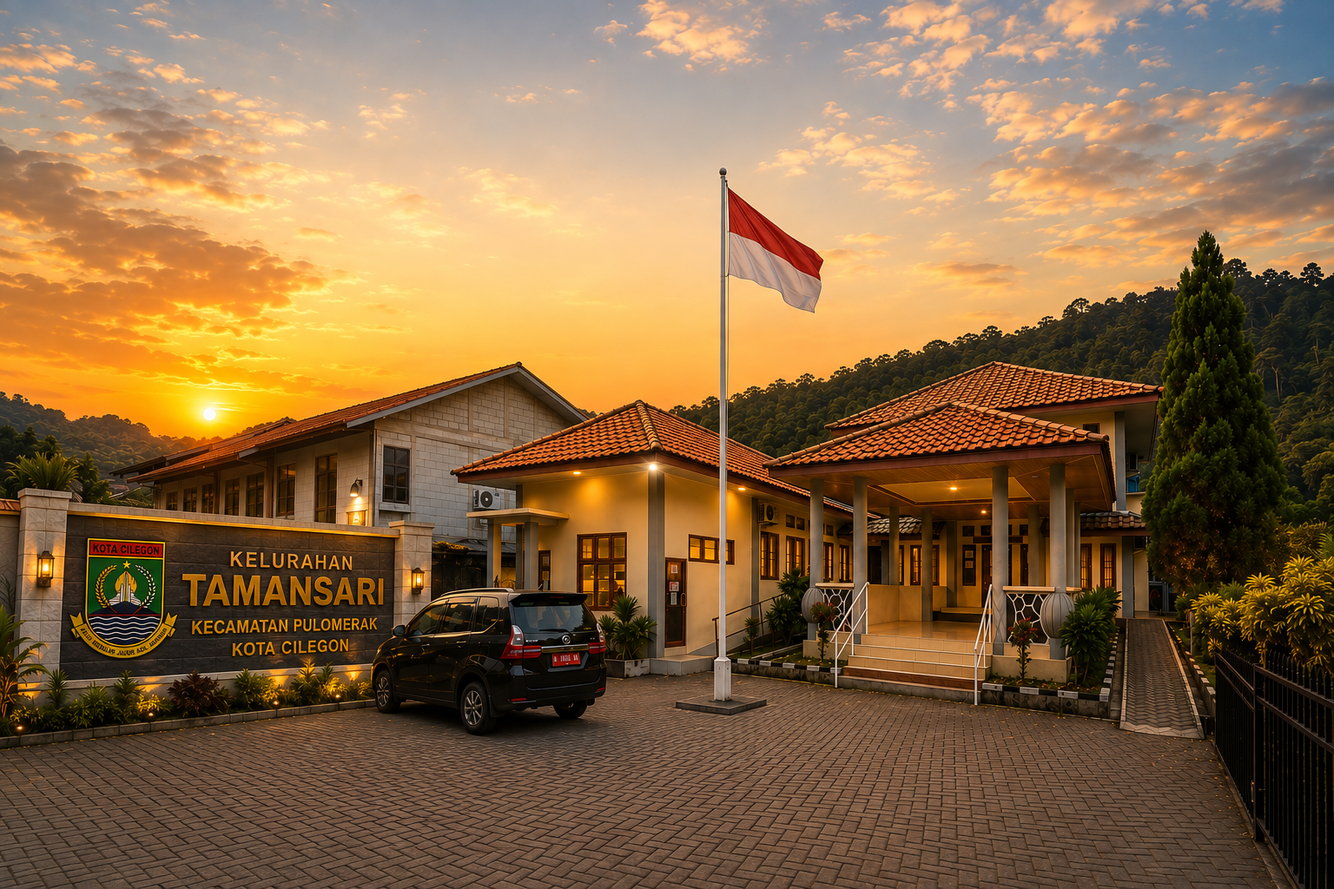
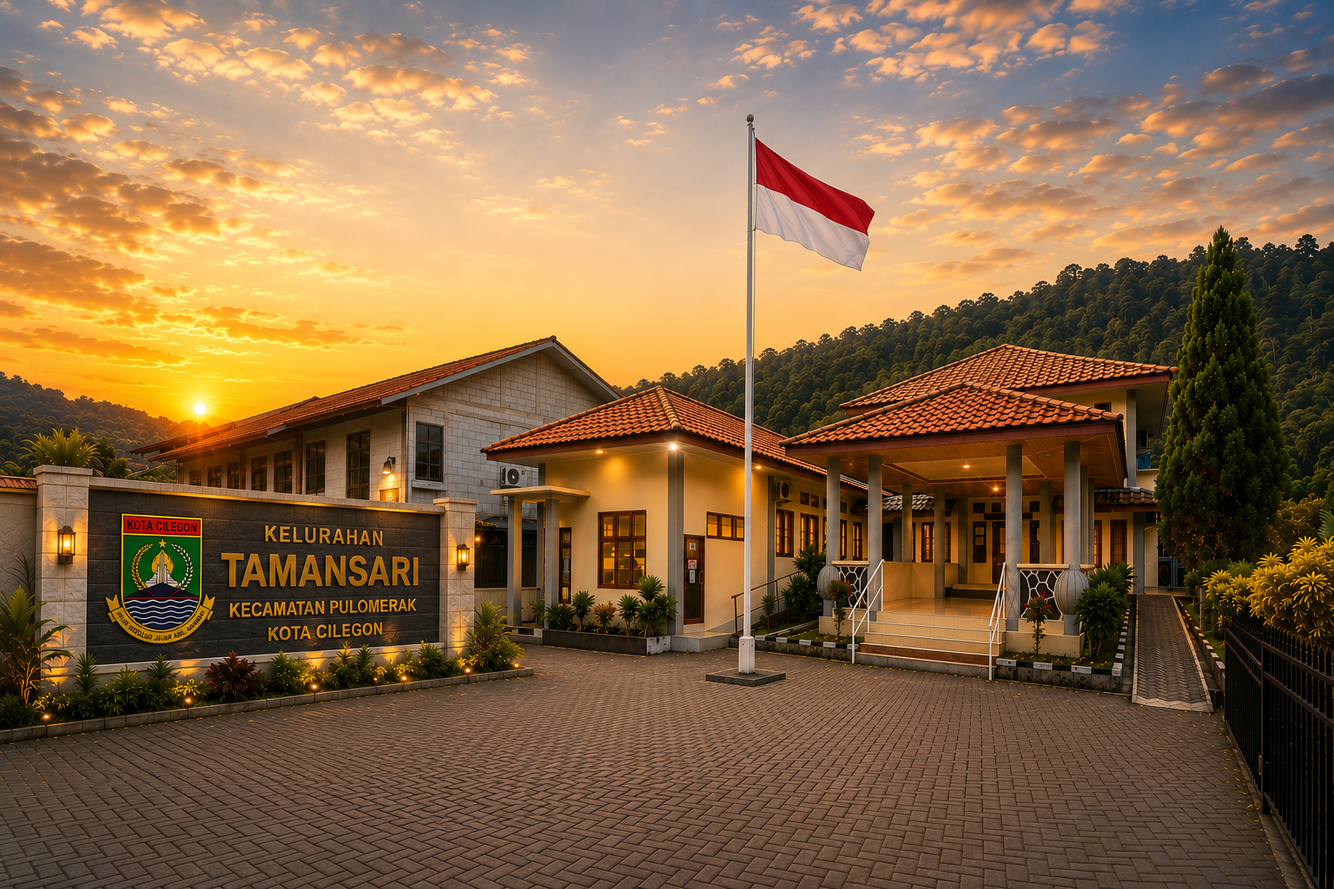
Jadikan halaman Dashboard sebagai Layanan

diff --git a/components/layout/navbar.tsx b/components/layout/navbar.tsx
@@ -5,18 +5,17 @@ import Image from "next/image";
 import type { Route } from "next";
 import { useEffect, useRef, useState } from "react";
 import { usePathname, useRouter } from "next/navigation";
-import { ChevronDown, ChevronRight, Headset, LogOut, Menu, Search, UserRound, X } from "lucide-react";
+import { ChevronDown, ChevronRight, FileText, KeyRound, LayoutDashboard, LogIn, LogOut, MapPinned, Menu, Search, UserPlus, UserRound, X } from "lucide-react";
 import { site } from "@/constants/site";
 import { cn } from "@/utils/cn";
 import { Sheet, SheetContent, SheetTrigger } from "@/components/ui/sheet";
 import { useWargaAuth } from "@/components/auth/warga-auth-provider";
-import { logoutWarga } from "@/services/warga-auth.service";
+import { isVerified, logoutWarga } from "@/services/warga-auth.service";
 
 const nav = [
     { label: "Beranda", href: "/" },
     { label: "Profil", href: "/profil" },
     { label: "Layanan", href: "/layanan" },
-    { label: "Surat Online", href: "/surat-online" },
     { label: "Berita", href: "/berita" },
     { label: "Agenda", href: "/agenda" },
     { label: "POSBANKUM", href: "/posbankum" },
@@ -28,6 +27,13 @@ const mobileNav: { label: string; href: Route; }[] = [
     ...nav,
     { label: "Kontak", href: "/kontak" },
 ];
+
+const wargaMenu = [
+    { label: "Layanan", href: "/layanan", icon: LayoutDashboard },
+    { label: "Pengajuan Saya", href: "/dashboard#pengajuan", icon: FileText },
+    { label: "Tracking", href: "/surat-online/tracking", icon: MapPinned },
+    { label: "Profil Saya", href: "/dashboard#profil", icon: UserRound },
+] as const;
 
 export function Navbar() {
     const pathname = usePathname();
@@ -41,12 +47,7 @@ export function Navbar() {
     const { user, profile, refresh } = useWargaAuth();
 
     const isActive = (href: string) =>
-        href === "/" ? pathname === "/" : href === "/#chat" ? false : pathname === href || pathname.startsWith(`${href}/`);
-
-    const openChat = () => {
-        window.dispatchEvent(new CustomEvent("tamsar-chat:open"));
-        setOpen(false);
-    };
+        href === "/" ? pathname === "/" : pathname === href || pathname.startsWith(`${href}/`);
 
     const signOut = async () => {
         try {
@@ -104,11 +105,7 @@ export function Navbar() {
                 </Link>
 
                 <nav className="hidden min-w-0 flex-1 items-center justify-center gap-0.5 whitespace-nowrap min-[1380px]:flex">
-                    {nav.map((item) => item.href === "/#chat" ? (
-                        <button key={item.href} type="button" onClick={openChat} className="relative rounded-full px-2.5 py-2 text-[13px] font-semibold text-gov-900 transition duration-200 hover:bg-green-50 hover:text-green-700">
-                            {item.label}
-                        </button>
-                    ) : (
+                    {nav.map((item) => (
                         <Link key={item.href} href={item.href} aria-current={isActive(item.href) ? "page" : undefined} className={cn("relative rounded-full px-2.5 py-2 text-[13px] font-semibold text-gov-900 transition duration-200 hover:bg-green-50 hover:text-green-700", isActive(item.href) && "bg-green-50 text-green-700 after:absolute after:inset-x-3 after:-bottom-1 after:h-0.5 after:rounded-full after:bg-accent-500")}>
                             {item.label}
                         </Link>
@@ -129,30 +126,27 @@ export function Navbar() {
                         )}
                     </div>
 
-                    {/* TAMSAR CS */}
-                    <button type="button" onClick={openChat} className="hidden min-h-11 items-center gap-2 rounded-full bg-green-600 px-5 py-3 text-sm font-black text-white shadow-green transition duration-200 hover:-translate-y-0.5 hover:bg-green-700 focus:outline-none focus:ring-4 focus:ring-green-100 sm:inline-flex">
-                        <Headset size={16} />
-                        <span className="hidden sm:inline">TAMSAR CS</span>
-                        <span className="sm:hidden">CS</span>
-                    </button>
-
-                    {/* Akun Warga - Desktop */}
-                    <div ref={accountRef} className="relative hidden min-[1380px]:block">
-                        <button type="button" onClick={() => setAccountOpen((value) => !value)} className="inline-flex min-h-11 items-center gap-2 rounded-full border border-border-soft bg-white/80 px-4 py-2 text-sm font-black text-gov-950 shadow-soft transition duration-200 hover:-translate-y-0.5 focus:outline-none focus:ring-4 focus:ring-green-100" aria-label="Menu Akun Warga" aria-expanded={accountOpen}>
+                    {/* Akun Warga */}
+                    <div ref={accountRef} className="relative">
+                        <button type="button" onClick={() => setAccountOpen((value) => !value)} className={cn("inline-flex min-h-11 items-center gap-2 rounded-full border border-green-100 bg-white px-3 py-2 text-sm font-black text-gov-950 shadow-soft transition duration-200 hover:-translate-y-0.5 hover:bg-green-50 hover:text-green-700 focus:outline-none focus:ring-4 focus:ring-green-100 sm:px-4", accountOpen && "bg-green-50 text-green-700 ring-4 ring-green-100")} aria-label="Menu Akun Warga" aria-expanded={accountOpen}>
                             <UserRound size={17} /> Akun Warga <ChevronDown size={15} className={cn("transition duration-200", accountOpen && "rotate-180")} />
                         </button>
                         {accountOpen && (
-                            <div className="absolute right-0 mt-3 w-64 rounded-[24px] border border-border-soft bg-white p-3 shadow-glass">
+                            <div className="absolute right-0 top-14 z-[60] w-[min(18.5rem,calc(100vw-1.5rem))] rounded-[20px] border border-green-100 bg-white p-3 shadow-[0_22px_70px_rgba(8,47,73,.18)]">
                                 {user ? (
                                     <>
-                                        <p className="px-3 pb-2 text-xs font-black uppercase tracking-[.18em] text-accent-600">{profile?.nama_lengkap ?? "Warga"}</p>
-                                        {[["Dashboard Saya", "/dashboard"], ["Pengajuan Saya", "/dashboard#pengajuan"], ["Profil", "/dashboard#profil"], ["Notifikasi", "/dashboard#notifikasi"]].map(([label, href]) => <Link key={href} href={href as Route} onClick={() => setAccountOpen(false)} className="block rounded-2xl px-4 py-3 text-sm font-bold text-gov-950 transition hover:bg-green-50">{label}</Link>)}
+                                        <div className="my-2 h-px bg-green-100" />
+                                        <p className="rounded-2xl bg-cream-50 px-4 py-3 text-sm font-black text-gov-950">{profile?.nama_lengkap ?? "Akun Warga"}</p>
+                                        {!isVerified(profile) ? <p className="mt-2 rounded-2xl bg-amber-50 px-4 py-3 text-xs font-bold leading-5 text-amber-700">Akun Anda sedang menunggu verifikasi.</p> : null}
+                                        <div className="my-2 h-px bg-green-100" />
+                                        {wargaMenu.map(({ label, href, icon: Icon }) => <Link key={href} href={href as Route} onClick={() => setAccountOpen(false)} className="flex items-center gap-3 rounded-2xl px-4 py-3 text-sm font-bold text-gov-950 transition hover:bg-green-50 hover:text-green-700"><Icon size={16} className="text-green-700" />{label}</Link>)}
                                         <button type="button" onClick={signOut} className="mt-1 flex w-full items-center gap-2 rounded-2xl px-4 py-3 text-left text-sm font-bold text-red-600 transition hover:bg-red-50"><LogOut size={16} />Keluar</button>
                                     </>
                                 ) : (
                                     <>
-                                        <Link href="/login" onClick={() => setAccountOpen(false)} className="block rounded-2xl px-4 py-3 text-sm font-bold text-gov-950 transition hover:bg-green-50">Masuk</Link>
-                                        <Link href="/register" onClick={() => setAccountOpen(false)} className="block rounded-2xl px-4 py-3 text-sm font-bold text-gov-950 transition hover:bg-green-50">Daftar</Link>
+                                        <Link href="/login" onClick={() => setAccountOpen(false)} className="flex items-center gap-3 rounded-2xl px-4 py-3 text-sm font-bold text-gov-950 transition hover:bg-green-50 hover:text-green-700"><LogIn size={16} className="text-green-700" />Masuk</Link>
+                                        <Link href="/register" onClick={() => setAccountOpen(false)} className="flex items-center gap-3 rounded-2xl px-4 py-3 text-sm font-bold text-gov-950 transition hover:bg-green-50 hover:text-green-700"><UserPlus size={16} className="text-green-700" />Daftar Akun</Link>
+                                        <Link href="/login?mode=forgot" onClick={() => setAccountOpen(false)} className="flex items-center gap-3 rounded-2xl px-4 py-3 text-sm font-bold text-gov-950 transition hover:bg-green-50 hover:text-green-700"><KeyRound size={16} className="text-green-700" />Lupa Password</Link>
                                     </>
                                 )}
                             </div>
@@ -187,27 +181,21 @@ export function Navbar() {
                                         <p className="flex items-center gap-2 px-2 pb-2 text-xs font-black uppercase tracking-[.18em] text-accent-600"><UserRound size={14} /> Akun Warga</p>
                                         {user ? (
                                             <>
-                                                {[["Dashboard Saya", "/dashboard"], ["Pengajuan Saya", "/dashboard#pengajuan"], ["Profil", "/dashboard#profil"], ["Notifikasi", "/dashboard#notifikasi"]].map(([label, href]) => <Link key={href} href={href as Route} onClick={() => setOpen(false)} className="flex items-center justify-between rounded-2xl px-4 py-3 text-base font-bold text-gov-950 transition hover:bg-white">{label}<ChevronRight size={18} className="text-slate-400" /></Link>)}
+                                                <p className="rounded-2xl bg-white px-4 py-3 text-sm font-black text-gov-950">{profile?.nama_lengkap ?? "Akun Warga"}</p>
+                                                {!isVerified(profile) ? <p className="mt-2 rounded-2xl bg-amber-50 px-4 py-3 text-xs font-bold leading-5 text-amber-700">Akun Anda sedang menunggu verifikasi.</p> : null}
+                                                <div className="my-2 h-px bg-green-100" />
+                                                {wargaMenu.map(({ label, href, icon: Icon }) => <Link key={href} href={href as Route} onClick={() => setOpen(false)} className="flex items-center justify-between rounded-2xl px-4 py-3 text-base font-bold text-gov-950 transition hover:bg-white"><span className="flex items-center gap-3"><Icon size={18} className="text-green-700" />{label}</span><ChevronRight size={18} className="text-slate-400" /></Link>)}
                                                 <button type="button" onClick={signOut} className="flex w-full items-center justify-between rounded-2xl px-4 py-3 text-base font-bold text-red-600 transition hover:bg-white">Keluar<LogOut size={18} /></button>
                                             </>
                                         ) : (
                                             <>
-                                                <Link href="/login" onClick={() => setOpen(false)} className="flex items-center justify-between rounded-2xl px-4 py-3 text-base font-bold text-gov-950 transition hover:bg-white">Masuk<ChevronRight size={18} className="text-slate-400" /></Link>
-                                                <Link href="/register" onClick={() => setOpen(false)} className="flex items-center justify-between rounded-2xl px-4 py-3 text-base font-bold text-gov-950 transition hover:bg-white">Daftar<ChevronRight size={18} className="text-slate-400" /></Link>
+                                                <Link href="/login" onClick={() => setOpen(false)} className="flex items-center justify-between rounded-2xl px-4 py-3 text-base font-bold text-gov-950 transition hover:bg-white"><span className="flex items-center gap-3"><LogIn size={18} className="text-green-700" />Masuk</span><ChevronRight size={18} className="text-slate-400" /></Link>
+                                                <Link href="/register" onClick={() => setOpen(false)} className="flex items-center justify-between rounded-2xl px-4 py-3 text-base font-bold text-gov-950 transition hover:bg-white"><span className="flex items-center gap-3"><UserPlus size={18} className="text-green-700" />Daftar Akun</span><ChevronRight size={18} className="text-slate-400" /></Link>
+                                                <Link href="/login?mode=forgot" onClick={() => setOpen(false)} className="flex items-center justify-between rounded-2xl px-4 py-3 text-base font-bold text-gov-950 transition hover:bg-white"><span className="flex items-center gap-3"><KeyRound size={18} className="text-green-700" />Lupa Password</span><ChevronRight size={18} className="text-slate-400" /></Link>
                                             </>
                                         )}
                                     </div>
-                                    {mobileNav.map((item) => item.href === "/#chat" ? (
-                                        <button
-                                            key={item.href}
-                                            type="button"
-                                            onClick={openChat}
-                                            className={cn("flex w-full items-center justify-between rounded-2xl border border-border-soft px-4 py-4 text-left text-base font-bold text-gov-950 transition hover:border-green-200 hover:bg-green-50")}
-                                        >
-                                            {item.label}
-                                            <ChevronRight size={18} className="text-slate-400" />
-                                        </button>
-                                    ) : (
+                                    {mobileNav.map((item) => (
                                         <Link
                                             key={item.href}
                                             href={item.href}
@@ -224,8 +212,8 @@ export function Navbar() {
                                 <div className="mt-auto pt-8">
                                     <div className="rounded-[1.5rem] bg-gov-950 p-5 text-white">
                                         <p className="text-xs font-black uppercase tracking-[0.24em] text-accent-200">Jam Pelayanan</p>
-                                        <p className="mt-4 text-sm font-bold">Senin–Jumat</p>
-                                        <p className="text-sm text-white/75">08.00–16.00 WIB</p>
+                                        <p className="mt-4 text-sm font-bold">Senin-Jumat</p>
+                                        <p className="text-sm text-white/75">08.00-16.00 WIB</p>
                                         <div className="mt-5 grid gap-3 text-sm text-white/80">
                                             <a className="rounded-xl bg-white/10 px-3 py-2" href={`tel:${site.phone}`}>WhatsApp</a>
                                             <a className="rounded-xl bg-white/10 px-3 py-2" href={`mailto:${site.email}`}>Email</a>
@@ -241,3 +229,8 @@ export function Navbar() {
         </header>
     );
 }
+
+
+
+
+

diff --git a/app/layanan/layanan-catalog.tsx b/app/layanan/layanan-catalog.tsx
@@ -3,15 +3,7 @@
 import Autoplay from "embla-carousel-autoplay";
 import useEmblaCarousel from "embla-carousel-react";
 import { AnimatePresence, motion } from "framer-motion";
-import {
-    ArrowLeft,
-    ArrowRight,
-    Building2,
-    FileText,
-    Megaphone,
-    Search,
-    X,
-} from "lucide-react";
+import { ArrowLeft, ArrowRight, Building2, FileText, Search, X } from "lucide-react";
 import Image from "next/image";
 import Link from "next/link";
 import { memo, useCallback, useEffect, useMemo, useState } from "react";
@@ -184,35 +176,31 @@ export function LayananCatalog({ services }: Props) {
                     <motion.div initial="hidden" whileInView="visible" viewport={{ once: true }} variants={fadeUp} transition={{ duration: 0.4 }} className="mt-10">
                         <div className="mb-6 flex flex-col gap-4 md:flex-row md:items-end md:justify-between">
                             <div>
-                                <p className="text-xs font-extrabold uppercase tracking-[0.28em] text-[#F4C542]">Daftar Pelayanan</p>
-                                <h2 className="mt-2 text-3xl font-extrabold tracking-[-0.04em] text-[#0D2B5C] sm:text-4xl">Pilih kebutuhan administrasi Anda</h2>
+                                <p className="text-xs font-extrabold uppercase tracking-[0.28em] text-[#F4C542]">Daftar Layanan</p>
+                                <h2 className="mt-2 text-3xl font-extrabold uppercase tracking-[-0.04em] text-[#0D2B5C] sm:text-4xl">Layanan Kelurahan Tamansari</h2>
                             </div>
-                            <p className="max-w-xl text-sm font-medium leading-7 text-slate-600">Gunakan kategori dan pencarian realtime untuk menemukan layanan yang paling sesuai. Desktop tampil grid, mobile bisa digeser.</p>
+                            <p className="max-w-xl text-sm font-medium leading-7 text-slate-600">Temukan layanan administrasi dan pelayanan masyarakat secara mudah dan cepat.</p>
                         </div>
 
                         {filtered.length ? (
                             <div className="relative">
                                 <div className="pointer-events-none absolute -inset-4 rounded-[36px] bg-gradient-to-r from-[#F4C542]/20 via-white/50 to-[#0D2B5C]/10 blur-2xl" />
-                                <motion.div key={`grid-${activeCategory}-${query}`} initial={{ opacity: 0, y: 18 }} animate={{ opacity: 1, y: 0 }} transition={{ duration: 0.35 }} className="relative hidden grid-cols-2 gap-5 md:grid lg:grid-cols-4 2xl:grid-cols-5">
-                                    {filtered.map((service, index) => <ServiceCard key={service.id} service={service} number={index + 1} onDetail={() => setDetail(service)} />)}
-                                </motion.div>
-                                <div className="relative overflow-hidden py-3 md:hidden" ref={emblaRef} aria-roledescription="carousel" aria-label="Slider pelayanan administrasi mobile">
+                                <div className="relative overflow-hidden py-3" ref={emblaRef} aria-roledescription="carousel" aria-label="Slider layanan Kelurahan Tamansari">
                                     <div className="flex touch-pan-y will-change-transform">
                                         {filtered.map((service, index) => (
-                                            <div key={service.id} className="min-w-0 flex-[0_0_100%] px-1">
+                                            <div key={service.id} className="min-w-0 flex-[0_0_100%] px-1 md:flex-[0_0_50%] md:px-2 xl:flex-[0_0_33.333%]">
                                                 <ServiceCard service={service} number={index + 1} onDetail={() => setDetail(service)} />
                                             </div>
                                         ))}
                                     </div>
                                 </div>
-                                <div className="md:hidden"><SliderFooter selected={selectedIndex} total={scrollSnaps.length} scrollPrev={scrollPrev} scrollNext={scrollNext} scrollTo={scrollTo} /></div>
+                                <SliderFooter selected={selectedIndex} total={scrollSnaps.length} scrollPrev={scrollPrev} scrollNext={scrollNext} scrollTo={scrollTo} />
                             </div>
                         ) : (
                             <div className="rounded-[28px] border border-[#E8EDF5] bg-white p-8 text-center text-base font-extrabold text-[#0D2B5C] shadow-[0_18px_55px_rgba(13,43,92,0.08)]">Layanan tidak ditemukan.</div>
                         )}
                     </motion.div>
 
-                    <BottomCta />
                 </div>
             </section>
             <AnimatePresence>{detail ? <DetailModal service={detail} onClose={() => setDetail(null)} /> : null}</AnimatePresence>
@@ -225,9 +213,9 @@ function Hero({ total }: { total: number }) {
         <motion.div initial="hidden" animate="visible" variants={fadeUp} transition={{ duration: 0.4 }} className="mt-8 overflow-hidden rounded-[36px] border border-white/80 bg-white/92 p-6 shadow-[0_28px_90px_rgba(13,43,92,0.10)] backdrop-blur-2xl sm:p-8 lg:p-10">
             <div className="grid gap-10 lg:grid-cols-[1.25fr_0.75fr] lg:items-center">
                 <div>
-                    <div className="flex items-center gap-3"><span className="grid size-16 place-items-center rounded-[24px] bg-[#FFF8DD] text-[#0D2B5C] shadow-inner"><FileText size={30} /></span><span className="text-xs font-extrabold uppercase tracking-[0.3em] text-[#F4C542]">Administrasi</span></div>
-                    <h1 className="mt-7 max-w-3xl text-[clamp(44px,7vw,64px)] font-extrabold leading-[0.95] tracking-[-0.06em] text-[#0D2B5C]">33 Jenis Pelayanan</h1>
-                    <p className="mt-5 max-w-2xl text-lg font-medium leading-8 text-slate-600 sm:text-xl">Pilih layanan yang Anda butuhkan dengan mudah.</p>
+                    <div className="flex items-center gap-3"><span className="grid size-16 place-items-center rounded-[24px] bg-[#FFF8DD] text-[#0D2B5C] shadow-inner"><FileText size={30} /></span><span className="text-xs font-extrabold uppercase tracking-[0.3em] text-[#F4C542]">Layanan</span></div>
+                    <h1 className="mt-7 max-w-3xl text-[clamp(40px,7vw,64px)] font-extrabold uppercase leading-[0.95] tracking-[-0.06em] text-[#0D2B5C]">Layanan Kelurahan Tamansari</h1>
+                    <p className="mt-5 max-w-2xl text-lg font-medium leading-8 text-slate-600 sm:text-xl">Temukan layanan administrasi dan pelayanan masyarakat secara mudah dan cepat.</p>
                     <div className="mt-7 h-1.5 w-36 rounded-full bg-gradient-to-r from-[#F4C542] via-[#F9D976] to-transparent" />
                 </div>
                 <div className="relative min-h-[300px] overflow-hidden rounded-[32px] bg-gradient-to-br from-[#F7F9FC] to-white p-5 ring-1 ring-[#E8EDF5]">
@@ -253,10 +241,6 @@ function ServiceIcon({ iconKey }: { iconKey: string }) {
 function SliderFooter({ selected, total, scrollPrev, scrollNext, scrollTo }: { selected: number; total: number; scrollPrev: () => void; scrollNext: () => void; scrollTo: (index: number) => void }) {
     const safeTotal = Math.max(total, 1);
     return <div className="mt-6 flex flex-col items-center justify-between gap-5 rounded-[28px] border border-white/80 bg-white/70 p-4 shadow-[0_16px_45px_rgba(13,43,92,0.07)] backdrop-blur-xl sm:flex-row"><div className="flex items-center gap-3"><button type="button" onClick={scrollPrev} aria-label="Slide sebelumnya" className="grid size-12 place-items-center rounded-full bg-[#F4C542] text-[#0D2B5C] shadow-[0_12px_30px_rgba(244,197,66,0.30)] transition hover:-translate-y-0.5 focus:outline-none focus:ring-4 focus:ring-[#F4C542]/25"><ArrowLeft size={18} /></button><p className="min-w-20 text-center text-sm font-extrabold text-[#0D2B5C]">{selected + 1} / {safeTotal}</p><button type="button" onClick={scrollNext} aria-label="Slide berikutnya" className="grid size-12 place-items-center rounded-full bg-[#F4C542] text-[#0D2B5C] shadow-[0_12px_30px_rgba(244,197,66,0.30)] transition hover:-translate-y-0.5 focus:outline-none focus:ring-4 focus:ring-[#F4C542]/25"><ArrowRight size={18} /></button></div><div className="flex flex-wrap justify-center gap-2" aria-label="Bullet indicator pelayanan">{Array.from({ length: safeTotal }, (_, index) => <button key={index} type="button" onClick={() => scrollTo(index)} aria-label={`Ke slide ${index + 1}`} aria-current={selected === index ? "true" : undefined} className={cn("h-2.5 rounded-full transition focus:outline-none focus:ring-4 focus:ring-[#F4C542]/25", selected === index ? "w-8 bg-[#F4C542]" : "w-2.5 bg-[#C8D4E6] hover:bg-[#0D2B5C]")} />)}</div></div>;
-}
-
-function BottomCta() {
-    return <motion.div initial="hidden" whileInView="visible" viewport={{ once: true }} variants={fadeUp} transition={{ duration: 0.4 }} className="relative mt-10 overflow-hidden rounded-[32px] bg-[#0D2B5C] p-6 text-white shadow-[0_28px_80px_rgba(13,43,92,0.22)] sm:p-8"><div className="absolute -right-20 -top-20 size-56 rounded-full bg-[#F4C542]/20" /><div className="relative flex flex-col gap-5 lg:flex-row lg:items-center lg:justify-between"><div className="flex items-center gap-4"><span className="grid size-14 shrink-0 place-items-center rounded-2xl bg-white/12 text-[#F4C542]"><Megaphone size={28} /></span><p className="max-w-3xl text-2xl font-extrabold leading-tight tracking-[-0.03em] sm:text-3xl">Layanan cepat, mudah dan transparan untuk masyarakat.</p></div><Link href="/layanan" className="inline-flex min-h-12 items-center justify-center gap-2 rounded-full bg-[#F4C542] px-6 text-sm font-extrabold text-[#0D2B5C] transition hover:-translate-y-0.5 focus:outline-none focus:ring-4 focus:ring-[#F4C542]/25">Lihat Semua Layanan <ArrowRight size={17} /></Link></div></motion.div>;
 }
 
 function DetailModal({ service, onClose }: { service: PublicService; onClose: () => void }) {

diff --git a/components/services/services-carousel.tsx b/components/services/services-carousel.tsx
@@ -75,11 +75,11 @@ export function ServicesCarousel({ services }: ServicesCarouselProps) {
                     <Badge className="border-accent-200 bg-accent-100 text-gov-800">
                         <Sparkles size={15} /> {services.length} Layanan
                     </Badge>
-                    <h2 id="services-carousel-title" className="mt-4 font-display text-3xl font-black tracking-tight text-gov-950 sm:text-5xl">
-                        Jenis Pelayanan Online
+                    <h2 id="services-carousel-title" className="mt-4 font-display text-3xl font-black uppercase tracking-tight text-gov-950 sm:text-5xl">
+                        Layanan Kelurahan Tamansari
                     </h2>
                     <p className="mt-4 text-base leading-8 text-slate-650 sm:text-lg">
-                        Temukan layanan administrasi, pengaduan, dan POSBANKUM dalam satu alur digital yang rapi.
+                        Temukan layanan administrasi dan pelayanan masyarakat secara mudah dan cepat.
                     </p>
                 </div>
                 <Link
@@ -125,6 +125,9 @@ export function ServicesCarousel({ services }: ServicesCarouselProps) {
                                         <p className="mt-5 inline-flex items-center gap-2 text-sm font-black text-gov-800">
                                             <CheckCircle2 size={17} /> Informasi resmi
                                         </p>
+                                        <Link href="/layanan" className="mt-6 inline-flex min-h-11 items-center justify-center gap-2 rounded-full border border-accent-300 bg-white px-4 text-sm font-black text-gov-950 transition hover:bg-accent-300">
+                                            Informasi & Ajukan <ArrowRight size={16} />
+                                        </Link>
                                     </GlassCard>
                                 </motion.article>
                             );
